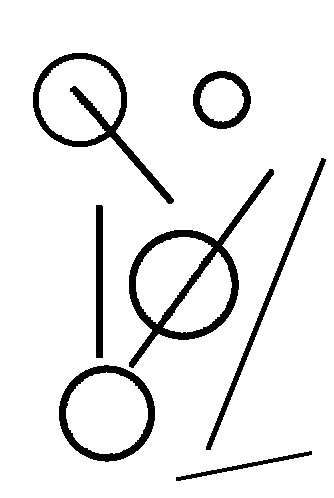
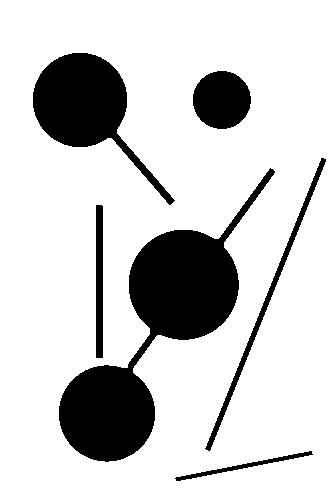
lab3-5

diff --git a/lab3/lab3_1.py b/lab3/lab3_1.py
@@ -3,7 +3,6 @@ import numpy as np
 
 path = r".\pictures\tzLab3\2-1.jpg"
 
-
 img = cv2.imread(path,flags=cv2.IMREAD_COLOR)
 
 img = cv2.cvtColor(img, cv2.COLOR_BGR2GRAY)
@@ -16,25 +15,23 @@ imbeddedWindow = cv2.namedWindow("imbeddedWindow",flags=cv2.WINDOW_AUTOSIZE )
 
 def closing(img, sizex, sizey, iterations):
     kernel = np.ones((sizex, sizey), np.uint8)
-    workimg = cv2.bitwise_not(img)
-    workimg = cv2.dilate(workimg,kernel, iterations=iterations)
+    workimg = cv2.dilate(img,kernel, iterations=iterations)
     workimg = cv2.erode(workimg,kernel,iterations=iterations)
-    return cv2.bitwise_not(workimg)
+    return workimg
 
 def opening(img, sizex, sizey, iterations):
     kernel = np.ones((sizex, sizey), np.uint8)
-    workimg = cv2.bitwise_not(img)
-    workimg = cv2.erode(workimg,kernel,iterations=iterations)
+    workimg = cv2.erode(img,kernel,iterations=iterations)
     workimg = cv2.dilate(workimg,kernel, iterations=iterations)
-    return cv2.bitwise_not(workimg)
+    return workimg
     
-openImg = opening(img, 3, 3, 1)
-closeImg = closing(img, 5, 5, 1)
+openImg = opening(img, 5, 5, 1)
+closeImg = closing(img, 3, 3, 1)
 
 cv2.imwrite('result_opening.jpg', openImg)
 cv2.imwrite('result_closing.jpg', closeImg)
 
-imbeddedImg = cv2.bitwise_not(cv2.morphologyEx(cv2.bitwise_not(img), cv2.MORPH_CLOSE, np.ones((5, 5), np.uint8),iterations=1))
+imbeddedImg = cv2.morphologyEx(img, cv2.MORPH_CLOSE, np.ones((3, 3), np.uint8),iterations=1)
 
 cv2.imshow("startWindow", img)
 cv2.imshow("closeWindow",closeImg)

diff --git a/lab3/lab3_2.py b/lab3/lab3_2.py
@@ -5,13 +5,11 @@ path = r".\pictures\tzLab3\2-2.jpg"
 
 img = cv2.imread(path,flags=cv2.IMREAD_COLOR)
 img = cv2.cvtColor(img, cv2.COLOR_BGR2GRAY)
-img_inverted = cv2.bitwise_not(img)
 openWindow = cv2.namedWindow("openWindow",flags=cv2.WINDOW_AUTOSIZE )
 
 
-openImg = cv2.morphologyEx(img_inverted, cv2.MORPH_OPEN, np.ones((2, 2), np.uint8),iterations=1)
+openImg = cv2.morphologyEx(img, cv2.MORPH_CLOSE, np.ones((2, 2), np.uint8),iterations=1)
 
-openImg = cv2.bitwise_not(openImg)
 cv2.imshow("openWindow", openImg)
 cv2.imwrite("lab3/morph"+str(id(img))+".jpg",openImg)
 cv2.waitKey(0)

diff --git a/lab5/lab5_1.py b/lab5/lab5_1.py
@@ -42,7 +42,7 @@ def findCircles(contours):
 ret, thresh_img = cv2.threshold(gray_img,100, 255, cv2.THRESH_BINARY_INV)
 
 contours, hierarchy =  cv2.findContours(thresh_img,cv2.RETR_EXTERNAL,cv2.CHAIN_APPROX_SIMPLE) 
-
+print(hierarchy)
 
 squares = findSquares(contours)
 triangels = findTriangels(contours)
